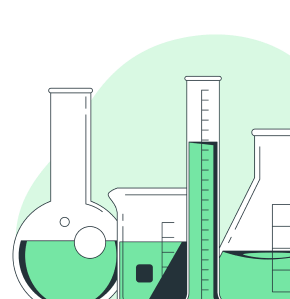
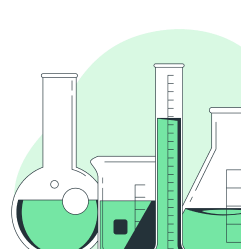
service section done

diff --git a/src/scss/components/_service.scss b/src/scss/components/_service.scss
@@ -54,18 +54,40 @@
 		}
 	}
 	&__item {
+		position: relative;
 		padding: 30px;
 		grid-column: 6 span;
 		background: var(--white-color);
 		border-radius: 10px;
-		background-repeat: no-repeat;
-		background-position: bottom right;
 		display: flex;
 		flex-direction: column;
 		justify-content: space-between;
+		gap: 12px;
 		min-height: 365px;
+		&::after {
+			content: "";
+			position: absolute;
+			inset: 0;
+			border-radius: 10px;
+			background-repeat: no-repeat;
+			background-position: bottom right;
+			pointer-events: none;
+			filter: grayscale(50%);
+			transition: filter 0.3s ease;
+		}
+		&:hover {
+			&::after {
+				filter: grayscale(0);
+			}
+		}
+		& * {
+			position: relative;
+			z-index: 100;
+		}
 		&-1 {
-			background-image: url("../img/service-bg-1.png");
+			&::after {
+				background-image: url("../img/service-bg-1.png");
+			}
 			& .service {
 				&__list-card {
 					max-width: 260px;
@@ -73,7 +95,9 @@
 			}
 		}
 		&-2 {
-			background-image: url("../img/service-bg-2.png");
+			&::after {
+				background-image: url("../img/service-bg-2.png");
+			}
 			& .service {
 				&__title-card {
 					max-width: 294px;
@@ -84,7 +108,9 @@
 			}
 		}
 		&-3 {
-			background-image: url("../img/service-bg-3.png");
+			&::after {
+				background-image: url("../img/service-bg-3.png");
+			}
 			& .service {
 				&__title-card {
 					max-width: 312px;
@@ -95,7 +121,9 @@
 			}
 		}
 		&-4 {
-			background-image: url("../img/service-bg-4.png");
+			&::after {
+				background-image: url("../img/service-bg-4.png");
+			}
 			& .service {
 				&__title-card {
 					max-width: 185px;
@@ -123,8 +151,198 @@
 			}
 		}
 	}
-	&__text {
-		&-nowrap {
+}
+
+@media (max-width: 1120px) {
+	.service {
+		&__container {
+			max-width: 590px;
+		}
+		&__list {
+			grid-template-columns: repeat(6, 1fr);
+		}
+	}
+}
+
+@media (max-width: 768px) {
+	.service {
+		&__container {
+			max-width: 487px;
+		}
+		&__list {
+			grid-template-columns: repeat(6, 1fr);
+			&-card {
+				padding-left: 15px;
+			}
+		}
+		&__title {
+			&-card {
+				font-size: 16px;
+				margin-bottom: 15px;
+				line-height: 134%;
+			}
+		}
+		&__subtitle {
+			margin-bottom: 33px;
+		}
+		&__item {
+			padding: 25px;
+			min-height: 303px;
+			&-card {
+				font-size: 12px;
+				&::before {
+					width: 3px;
+					height: 3px;
+					position: absolute;
+					top: 7px;
+					left: -12px;
+				}
+			}
+			&-1 {
+				&::after {
+					background-size: 241px;
+				}
+				& .service {
+					&__list-card {
+						max-width: unset;
+						padding-right: 206px;
+					}
+				}
+			}
+			&-2 {
+				&::after {
+					background-size: 288px;
+				}
+				& .service {
+					&__list-card {
+						max-width: unset;
+						padding-right: 213px;
+					}
+				}
+			}
+			&-3 {
+				&::after {
+					background-size: 270px;
+				}
+				& .service {
+					&__title-card {
+						max-width: 259px;
+					}
+					&__list-card {
+						max-width: unset;
+						padding-right: 180px;
+					}
+				}
+			}
+			&-4 {
+				&::after {
+					background-size: 259px;
+				}
+				& .service {
+					&__title-card {
+						max-width: 153px;
+					}
+					&__list-card {
+						max-width: unset;
+						padding-right: 229px;
+					}
+				}
+			}
+		}
+		&__link {
+			&-more {
+				font-size: 14px;
+			}
+		}
+	}
+}
+
+@media (max-width: 493px) {
+	.service {
+		&__item {
+			&-3 {
+				&::after {
+					background-size: 270px;
+				}
+				& .service {
+					&__list-card {
+						padding-right: 203px;
+					}
+				}
+			}
+		}
+	}
+}
+
+@media (max-width: 425px) {
+	.service {
+		&__item {
+			padding-bottom: 90px;
+			&-1 {
+				&::after {
+					background-size: 201px;
+				}
+				& .service {
+					&__list-card {
+						padding-right: 0;
+					}
+				}
+			}
+			&-2 {
+				&::after {
+					background-size: 218px;
+				}
+				& .service {
+					&__list-card {
+						padding-right: 100px;
+					}
+				}
+			}
+			&-3 {
+				&::after {
+					background-size: 200px;
+				}
+				& .service {
+					&__list-card {
+						padding-right: 0;
+					}
+				}
+			}
+			&-4 {
+				&::after {
+					background-size: 200px;
+				}
+				& .service {
+					&__list-card {
+						padding-right: 0;
+					}
+				}
+			}
+		}
+		&__link {
+			&-more {
+				position: absolute;
+				bottom: 25px;
+			}
+		}
+	}
+}
+
+@media (max-width: 375px) {
+	.service {
+		&__item {
+			&-1::after {
+				background-size: 150px;
+			}
+			&-2::after {
+				background-size: 188px;
+			}
+			&-3::after {
+				background-size: 170px;
+			}
+			&-4::after {
+				background-size: 160px;
+			}
 		}
 	}
 }
